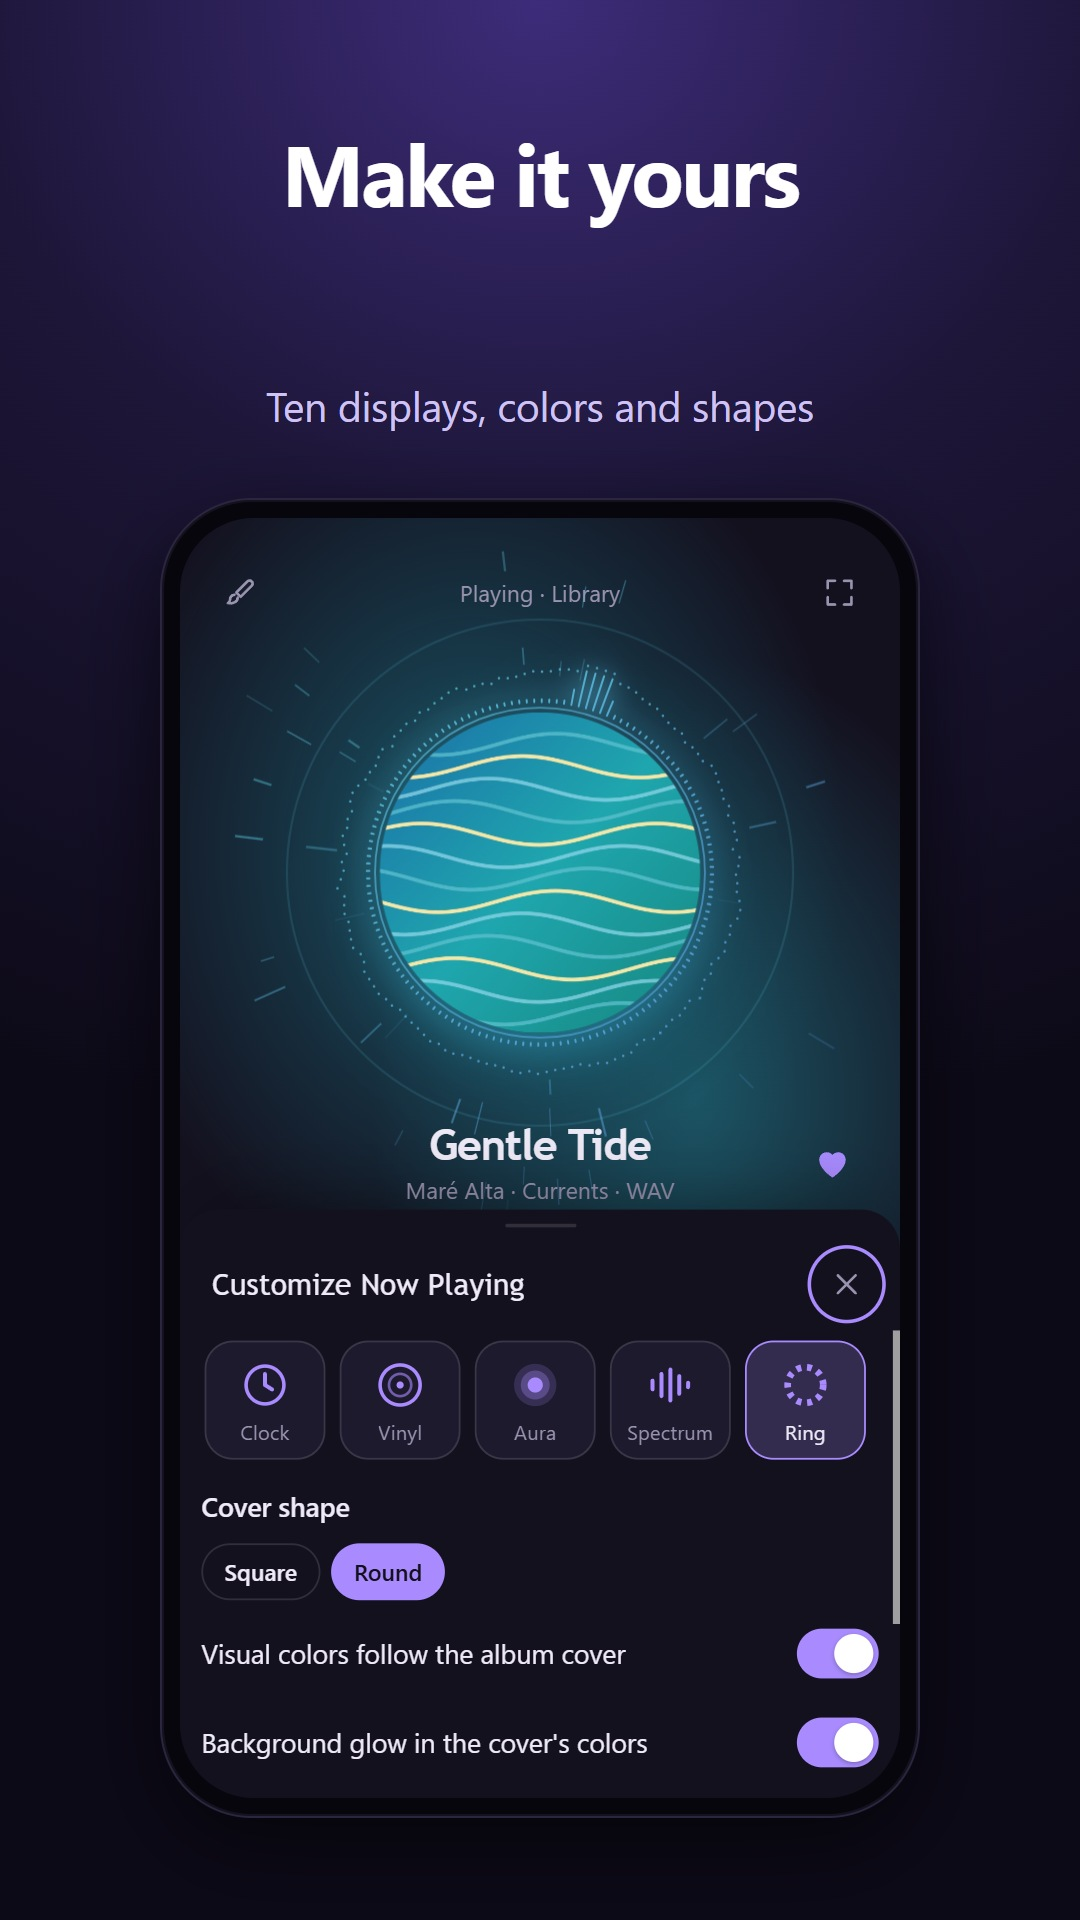
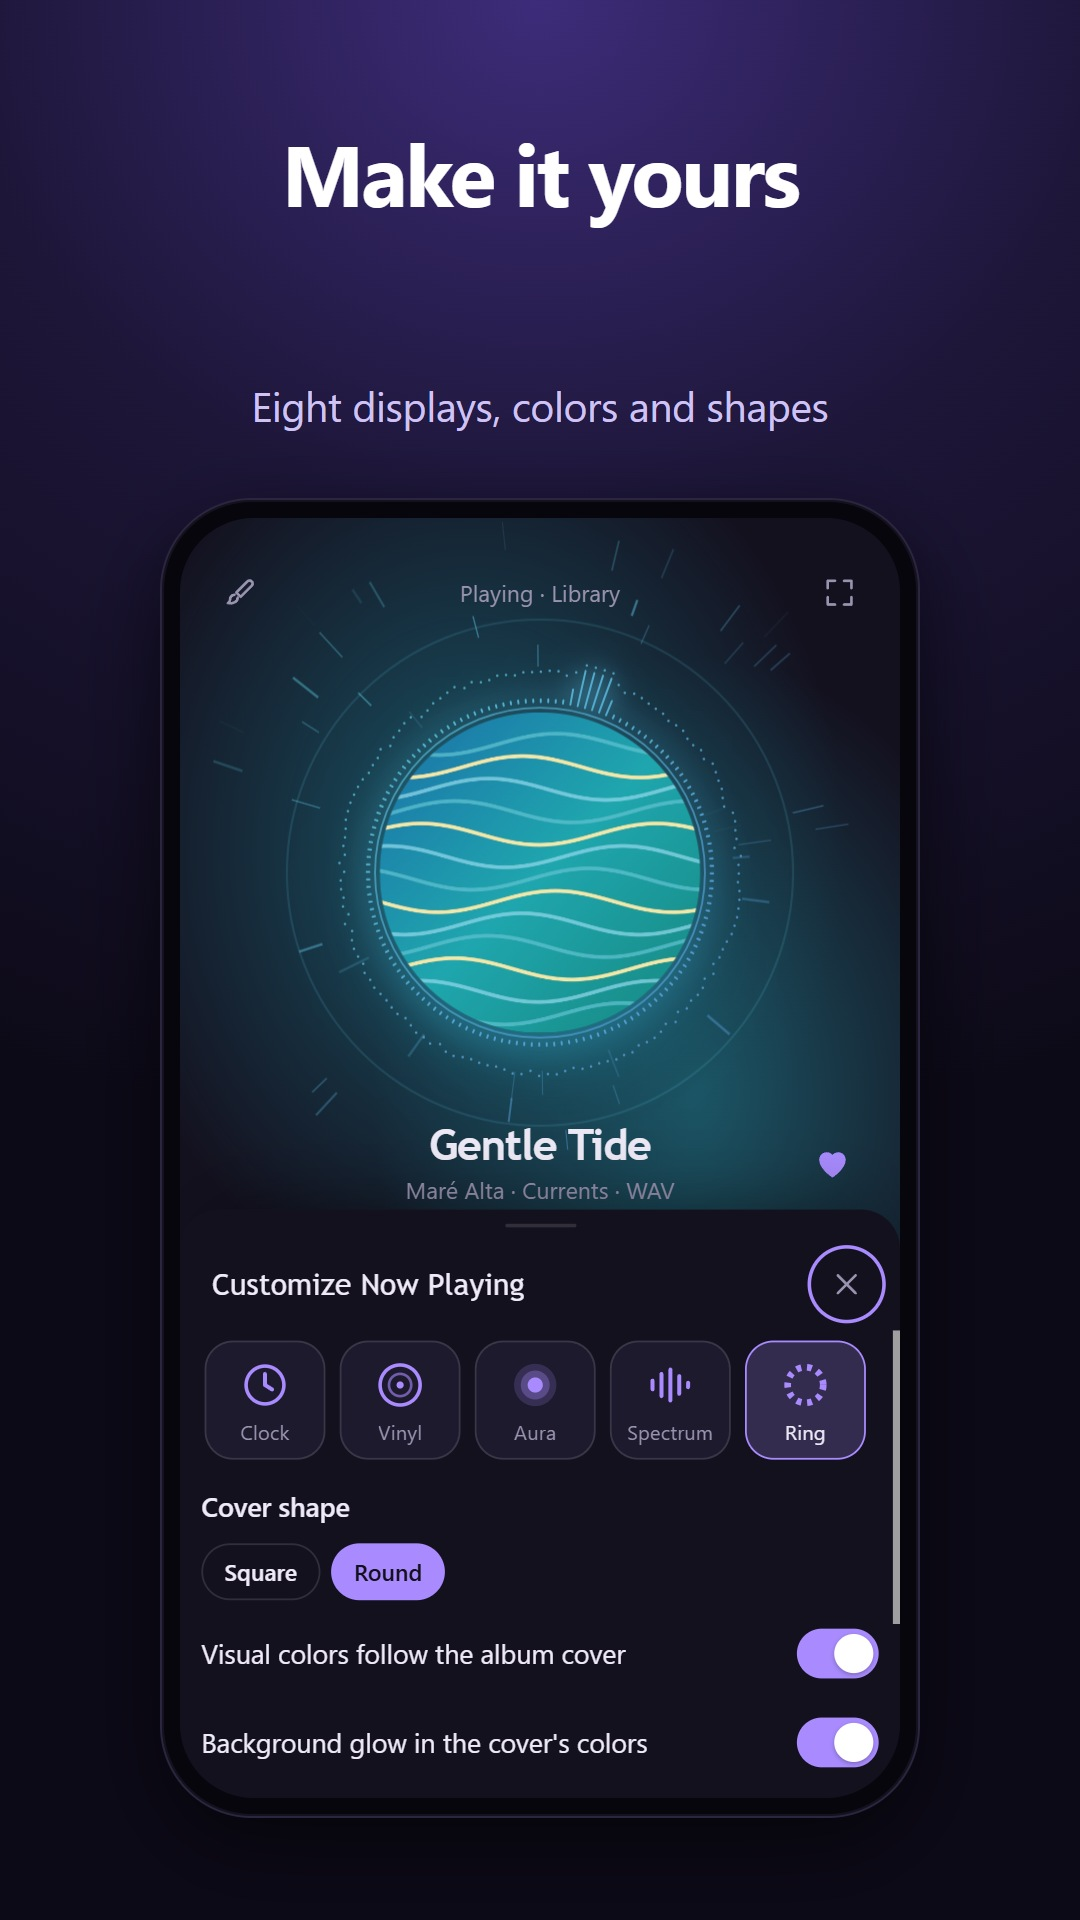
1.26.1: acertos da revisão (oito mostradores, WAV, troca do APK de teste pela versão da Play, privacidade)

Changed region(s): [[0.2444, 0.1875, 0.7639, 0.2188], [0.5194, 0.3438, 0.5806, 0.375]]

diff --git a/privacidade.html b/privacidade.html
@@ -45,7 +45,7 @@
       <li>o nome e a foto que você escolher para o seu perfil, se quiser colocar;</li>
       <li>temas e ajustes.</li>
     </ul>
-    <p>Nada disso sai do aparelho. Não existe conta, login, servidor ou nuvem do Orolon.</p>
+    <p>O Orolon não envia nada disso para lugar nenhum. Não existe conta, login, servidor ou nuvem do Orolon. Se o backup do próprio Android estiver ligado no seu aparelho, o sistema pode guardar os dados do app na sua conta Google, como faz com outros apps; isso é controlado por você nas configurações do Android.</p>
 
     <h3>O que o app não faz</h3>
     <ul>
@@ -67,7 +67,7 @@
     <p>Se você usar "Salvar backup", o app cria um arquivo com suas playlists, estatísticas e ajustes e o entrega para você. Você decide onde guardar esse arquivo. O Orolon não tem acesso a ele depois. Com o "Enviar backup", quem envia o arquivo é o app que você escolher no compartilhamento do Android. Se você ligar o backup automático, o app grava cópias só na pasta que você escolher.</p>
 
     <h3>Como apagar seus dados</h3>
-    <p>Você pode remover músicas e apagar as estatísticas dentro do app. Desinstalar o Orolon, ou limpar os dados dele nas configurações do Android, apaga tudo o que ele guardou.</p>
+    <p>Você pode remover músicas e apagar as estatísticas dentro do app. Desinstalar o Orolon, ou limpar os dados dele nas configurações do Android, apaga tudo o que ele guardou. Os arquivos de backup que você salvou ou enviou continuam onde você os deixou.</p>
 
     <h3>Crianças</h3>
     <p>O app não coleta dados de ninguém, inclusive de crianças.</p>
@@ -92,7 +92,7 @@
       <li>the name and picture you choose for your profile, if you add them;</li>
       <li>themes and settings.</li>
     </ul>
-    <p>None of this leaves your device. Orolon has no account, sign-in, server or cloud.</p>
+    <p>Orolon does not send any of this anywhere. Orolon has no account, sign-in, server or cloud. If Android's own backup is turned on in your device, the system may keep the app's data in your Google account, as it does for other apps; you control that in Android settings.</p>
 
     <h3>What the app does not do</h3>
     <ul>
@@ -114,7 +114,7 @@
     <p>If you use "Save backup", the app creates a file with your playlists, stats and settings and hands it to you. You decide where to keep it. Orolon has no access to it afterwards. With "Send backup", the file is sent by the app you pick in Android's share sheet. If you turn on automatic backup, the app writes copies only to the folder you choose.</p>
 
     <h3>How to delete your data</h3>
-    <p>You can remove songs and clear your stats inside the app. Uninstalling Orolon, or clearing its data in Android settings, deletes everything it stored.</p>
+    <p>You can remove songs and clear your stats inside the app. Uninstalling Orolon, or clearing its data in Android settings, deletes everything it stored. Backup files you saved or sent stay wherever you left them.</p>
 
     <h3>Children</h3>
     <p>The app does not collect data from anyone, including children.</p>

diff --git a/loja/ficha.md b/loja/ficha.md
@@ -35,7 +35,7 @@ O Orolon toca as músicas que já estão no seu aparelho e transforma o som em i
 Tudo funciona sem internet. Não tem conta, não tem anúncio e nada sai do seu celular.
 
 VISUAIS QUE REAGEM À MÚSICA
-• Dez mostradores: Relógio, Vinil, Aura, Espectro, Anel, Neon, Barras, LED, Cassete e Rádio
+• Oito mostradores: Relógio, Vinil, Aura, Espectro, Anel, Neon, Barras e LED
 • No Relógio, o ponteiro anda a cada batida
 • Cores tiradas da capa de cada música e luz de fundo no mesmo tom
 • Tela cheia com relógio, para deixar tocando na mesa
@@ -43,7 +43,7 @@ VISUAIS QUE REAGEM À MÚSICA
 
 SUA BIBLIOTECA
 • Acha sozinho as músicas do aparelho, ou você escolhe uma pasta
-• Lê título, artista, álbum e capa de MP3, FLAC, M4A, OGG, Opus e WAV
+• Toca MP3, FLAC, M4A, OGG, Opus e WAV, e lê título, artista, álbum e capa gravados no arquivo
 • Músicas, álbuns, artistas e pastas, com busca e várias ordens
 • Playlists, favoritas, notas de 1 a 5 estrelas e listas automáticas (mais tocadas, recentes)
 • Importa e exporta playlists .m3u
@@ -93,7 +93,7 @@ Orolon plays the music that is already on your device and turns sound into image
 Everything works without internet. No account, no ads, and nothing leaves your phone.
 
 VISUALS THAT REACT TO MUSIC
-• Ten displays: Clock, Vinyl, Aura, Spectrum, Ring, Neon, Bars, LED, Cassette and Radio
+• Eight displays: Clock, Vinyl, Aura, Spectrum, Ring, Neon, Bars and LED
 • On the Clock, the hand moves on every beat
 • Colors taken from each song's cover, with a matching background glow
 • Full screen with a clock, to leave playing on your desk
@@ -101,7 +101,7 @@ VISUALS THAT REACT TO MUSIC
 
 YOUR LIBRARY
 • Finds the music on your device by itself, or you pick a folder
-• Reads title, artist, album and cover from MP3, FLAC, M4A, OGG, Opus and WAV
+• Plays MP3, FLAC, M4A, OGG, Opus and WAV, and reads the title, artist, album and cover stored in the file
 • Songs, albums, artists and folders, with search and several sort orders
 • Playlists, favorites, 1 to 5 star ratings and automatic lists (most played, recent)
 • Imports and exports .m3u playlists
@@ -177,5 +177,7 @@ Orolon collects no data. Your music, playlists and settings stay on your device.
 ## Antes de enviar
 
 1. Testar no celular o APK de teste da 1.26.1 (sem a permissão de internet) e só então gerar o `.aab`: Actions › "App Android (loja)" › Run workflow, na `main`.
-2. Na primeira publicação, deixar ativado o Play App Signing (ver `ANDROID.md`).
-3. Conferir no Console a verificação de desenvolvedor (obrigatória no Brasil, **a confirmar** a data na própria conta).
+2. **Quem já tem o APK de teste instalado** (você e o Pombo): a versão da Play é assinada com outra chave e não instala por cima. Antes: Ajustes › Salvar backup (ou Enviar backup), desinstalar o APK de teste, instalar pela Play e restaurar o backup. Desinstalar sem backup apaga playlists, estatísticas e ajustes.
+3. Ler no registro do envio (passo "Permissões que ficaram no app") a lista final de permissões: não pode haver `INTERNET`; se aparecer `ACCESS_NETWORK_STATE`, avisar antes de publicar.
+4. Na primeira publicação, deixar ativado o Play App Signing (ver `ANDROID.md`).
+5. Conferir no Console a verificação de desenvolvedor (obrigatória no Brasil, **a confirmar** a data na própria conta).

diff --git a/ROADMAP.md b/ROADMAP.md
@@ -63,8 +63,8 @@ Tiradas de uma revisão detalhada do "Reprodutor de Música Offline" (50 mi+ dow
 - ✅ **1.24 Aura refinada:** brilho macio, poeira com profundidade, onda do bumbo, fio de luz na caixa e troca de música.
 - ✅ **1.25 Mostradores:** Relógio redondo com ponteiros, Espectro, Anel, Neon e Barras refinados, e economia de bateria (menos desenhos por segundo).
 - ✅ **1.25.1:** correção da capa esticada ao sair do LED, fluidez máxima (90/120 Hz) como opção e menos trabalho fora do Tocando agora.
-- ✅ **1.26.1 Preparo da loja:** Android sem permissão de internet, aviso de atualização próprio da versão da Play, prints e textos da ficha.
 - ✅ **1.26 Estilos da Aura:** Phonk, Lo-fi e Anos 80 no pincel, liberados por enquanto; depois entram no pacote Apoiador.
+- ✅ **1.26.1 Preparo da loja:** Android sem permissão de internet, aviso de atualização próprio da versão da Play, prints e textos da ficha.
 - **A refazer:** o Phonk ficou sem impacto perto das edits de Phonk e slowed; refazer com vídeos de referência.
 - **Ideia (a desenhar com calma):** no pacote Apoiador, escolher um vídeo do aparelho que acelera e desacelera conforme a batida, como uma edit. Cuidar do custo no celular.
 - **Próxima:** publicação (ficha e prints da Play, README, teste fechado).

diff --git a/CHANGELOG.md b/CHANGELOG.md
@@ -4,7 +4,7 @@
 - **Android sem permissão de internet:** o app nunca usou a internet, mas o pacote ainda levava essa permissão de fábrica. Agora ela foi retirada, e a montagem do app falha se um dia ela voltar.
 - **Versão da Google Play:** em Ajustes › Sobre, o aviso de versões novas passa a dizer que elas chegam pela loja. O APK de teste continua apontando para o GitHub.
 - **Política de privacidade** atualizada: explica a leitura das músicas do aparelho e os backups.
-- Material novo da loja: capturas de tela e textos da ficha, em português e inglês.
+- Textos da ficha da loja, em português e inglês.
 
 ## 1.26.0
 - **Estilos da Aura:** no pincel do Tocando agora, com o mostrador Aura, dá para escolher o estilo. O Padrão continua como era.
